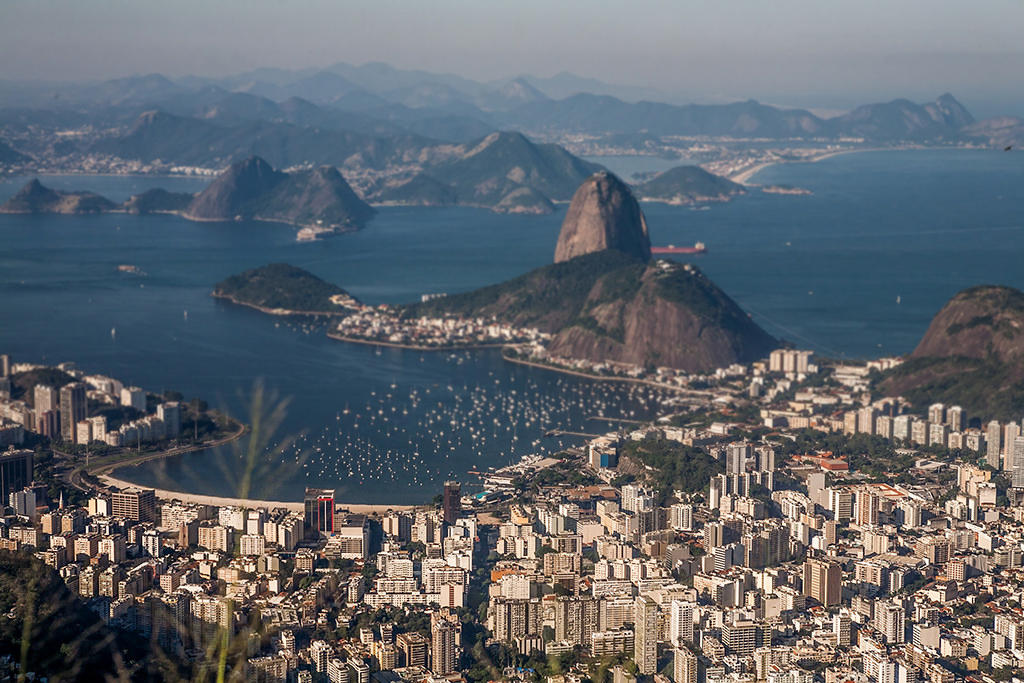
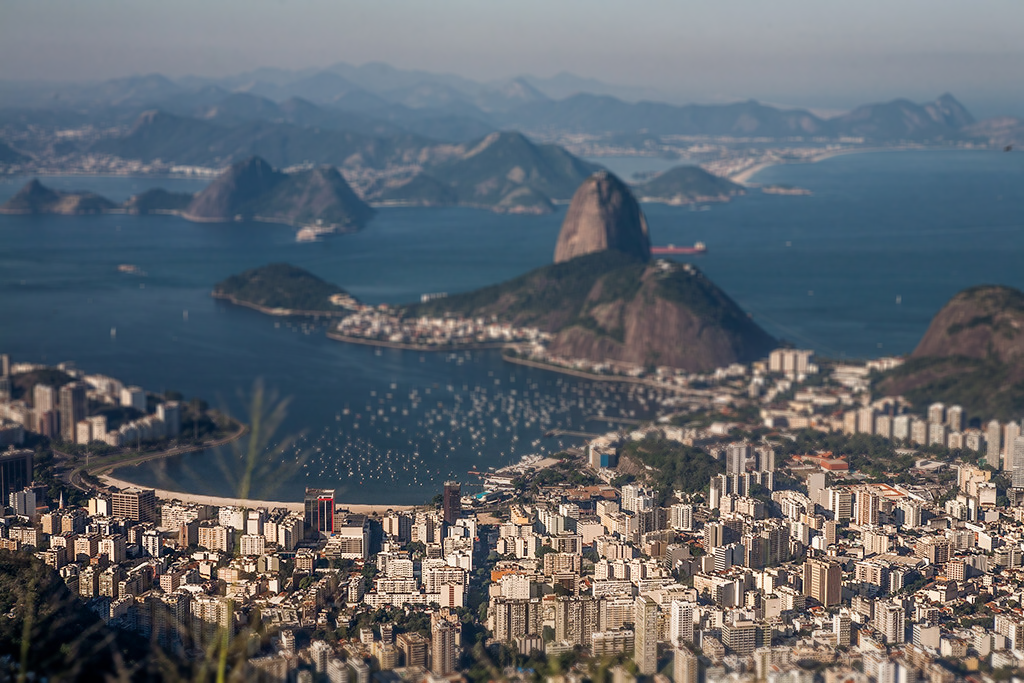
changed the gaussian filter parameters

diff --git a/exercises/tiltshift.cpp b/exercises/tiltshift.cpp
@@ -110,7 +110,7 @@ int main(int argc, char** argv){
   img_ponder = cv::Mat(height1,width1,CV_32F);
 
   // vamos borrar a imagem
-  cv::GaussianBlur(image1,image1_borrada,cv::Size(101,101),1.0,0.0);
+  cv::GaussianBlur(image1,image1_borrada,cv::Size(5,5),5.0,5.0);
 
   // a partir daqui cria-se a janela
   cv::namedWindow("Tiltshift Screen");
